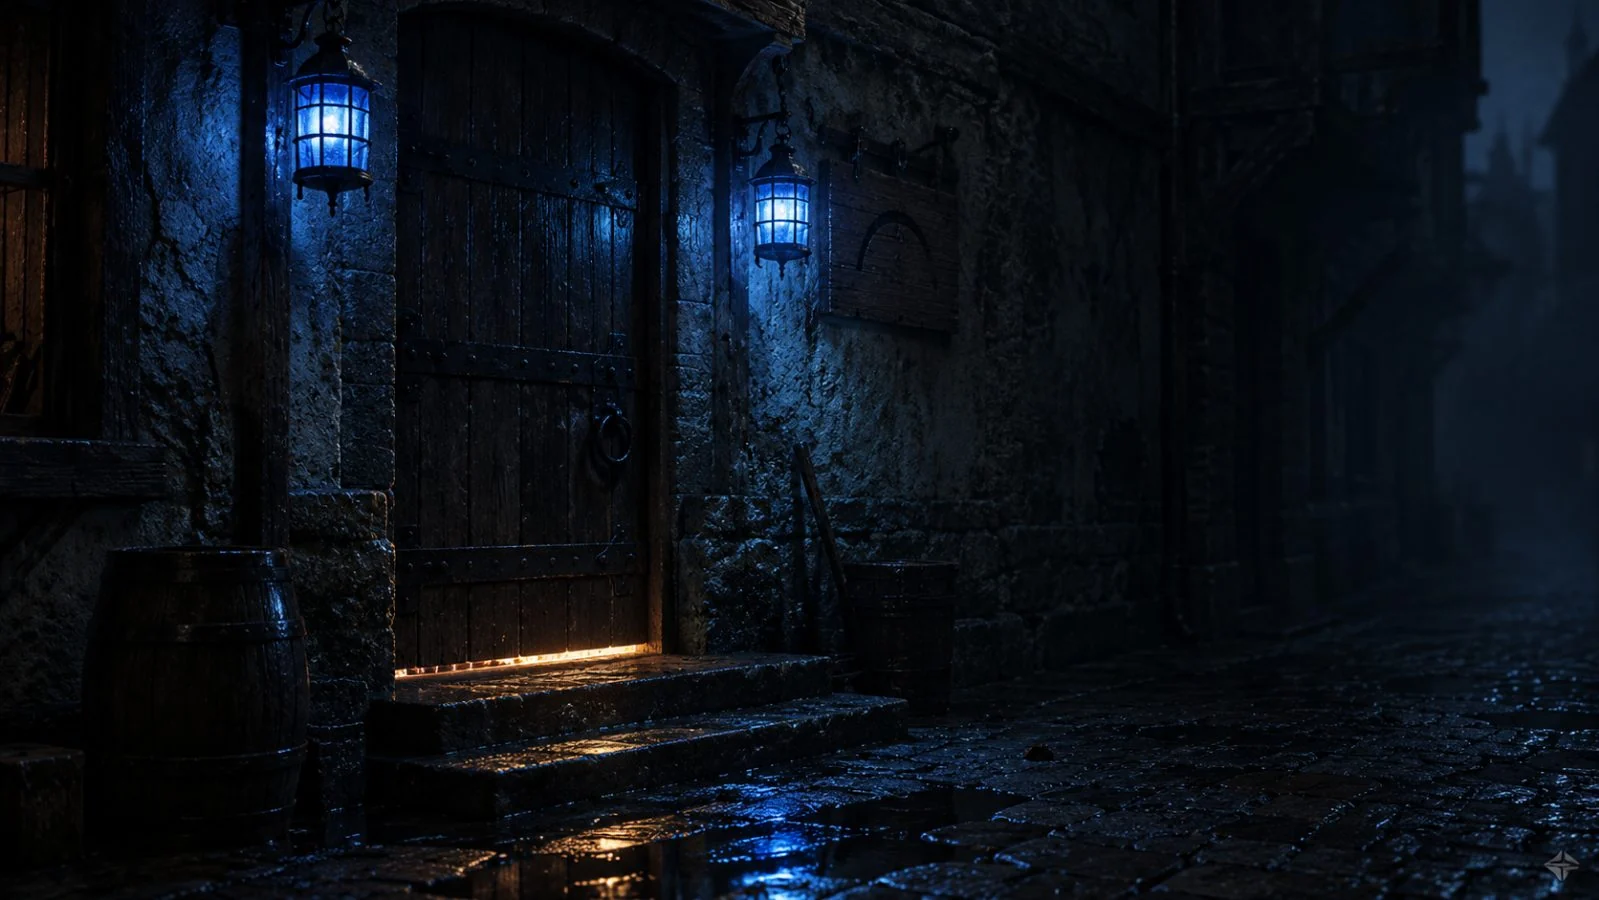
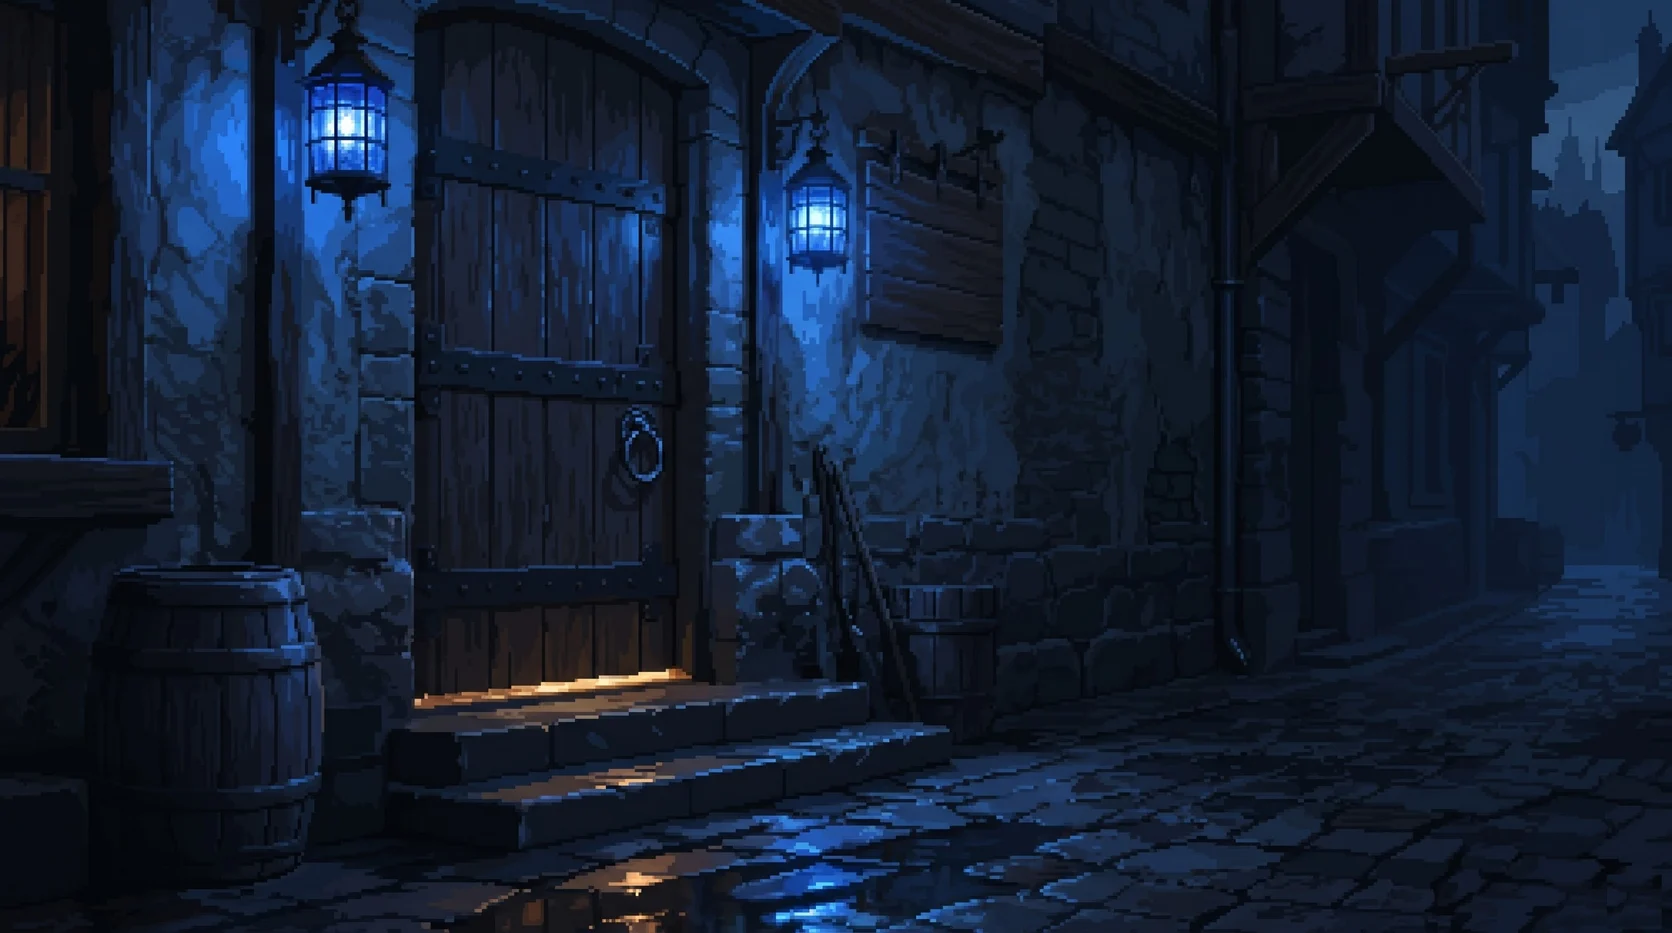
ПОРТ: крыльцо «Синего часа» в спокойном пикселе — первый переведённый фон (1 из 48)
Старый кадр — в Источники_Арта/Альтернативы, исходник Gemini без значка — Источники_Арта/Места/krylco_art.png.
Публичная копия игры пересобрана (заодно догнала озвучку пролога — проверка снова зелёная).

Claude-Session: https://claude.ai/code/session_01AohsHedWdkfggLZ7wdatry

diff --git a/Игры/Сайт/Игра/Порт/Данные/озвучка-пролога.js b/Игры/Сайт/Игра/Порт/Данные/озвучка-пролога.js
@@ -1,0 +1,31 @@
+// Озвучка пролога (13.11): текст для синтеза речи — отдельно от субтитров (субтитры — Данные/вступление.js, поле пролог).
+// Теги эмоций в квадратных скобках — только для синтезатора: вслух не звучат, проверка распознаванием сверяет
+// слова с субтитром без тегов. Многоточие и запятые здесь — паузы для голоса, в субтитре их может не быть.
+// Голоса ещё не выбраны: доска проб — после того, как окружение пустит модели (доска Порта, Р21).
+// ключ — путь строки в данных пролога: рассказ.N, бросок.<исход>, разговор.N, удар.
+export const ГОЛОСА_ПРОЛОГА = {
+  рассказчик: { голос: null, о: 'голос «ты»-рассказа: ровный, близкий, без пафоса' },
+  грузчик: { голос: null, о: 'старшой артели, за пятьдесят, хриплый, говорит коротко' },
+};
+
+export const ОЗВУЧКА_ПРОЛОГА = [
+  { ключ: 'рассказ.0', кто: 'рассказчик', синтез: '[тихо, устало] Семь лет — чужие реки... чужие баржи.' },
+  { ключ: 'рассказ.1', кто: 'рассказчик', синтез: '[спокойно, с тёплой ноткой] Порт Теней узнаёшь по звуку — раньше, чем по крышам.' },
+  { ключ: 'рассказ.2', кто: 'рассказчик', синтез: '[ровно, чуть с горечью] Здесь тебя никто не ждёт. Так даже проще.' },
+  { ключ: 'бросок.зов', кто: 'грузчик', синтез: '[громко, через воду] Эй, на барже! Конец давай!' },
+  { ключ: 'бросок.удача', кто: 'рассказчик', синтез: '[довольно] Петля ложится на тумбу с первого раза. Руки помнят.' },
+  { ключ: 'бросок.недолёт', кто: 'рассказчик', синтез: '[с усмешкой] Конец шлёпает в воду. Грузчик выуживает его багром и ворчит.' },
+  { ключ: 'бросок.перелёт', кто: 'рассказчик', синтез: '[с усмешкой] Конец перелетает тумбу. Грузчик ловит его и накидывает петлю сам.' },
+  { ключ: 'разговор.0', кто: 'рассказчик', синтез: '[тише] Грузчик не спешит вязать канат. Смотрит на тебя.' },
+  { ключ: 'разговор.1', кто: 'грузчик', синтез: '[недоверчиво, прищурясь] Скарре? Бреннов сын?' },
+  { ключ: 'разговор.2', кто: 'рассказчик', синтез: '[коротко] Ты киваешь.' },
+  { ключ: 'разговор.3', кто: 'грузчик', синтез: '[глухо, медленно] Бренна... четыре года как схоронили.' },
+  { ключ: 'разговор.4', кто: 'грузчик', синтез: '[растерянно, тише] Я думал, тебе сказали.' },
+  { ключ: 'удар', кто: 'рассказчик', синтез: '[очень тихо] Ты не знал.' },
+];
+
+// Пробы для доски выбора голоса: по две строки на персонажа — спокойная и с эмоцией.
+export const ПРОБЫ = {
+  рассказчик: ['рассказ.1', 'удар'],
+  грузчик: ['разговор.1', 'разговор.3'],
+};

diff --git a/Игры/Порт/ДОСКА.md b/Игры/Порт/ДОСКА.md
@@ -153,7 +153,7 @@
 | Р21 | **Пролог (третья версия 12.11, по отзыву автора «ролик стрёмный, перебор с плёнкой, звук хрипит, музыка не та, текст странный — 3/10»).** Видео убрано совсем. Один пиксельный кадр прибытия оживает: вода колышется (пиксели воды и отражения огней построчно, 12 кадров в секунду), камера медленно подходит; без растра, зерна и цветокоррекции. Текст как в комиксе: рассказ — бумажной подписью в углу кадра, реплика — облаком с головой говорящего (грузчик — временная голова с фото-кандидата `Ресурсы/Лица/port_gruzchik_golova.webp`, ждёт живописного пикселя, Р23). Бросок швартова — физика каната (стравливается с руки, ложится на борт, петля на тумбу / в воду / за тумбу). Разговор — камера подходит к причалу, на «схоронили» кадр темнеет и музыка уходит в тишину; «Ты не знал.» в темноте → выбор начала. Звук: синтезированный шум моря убран (он хрипел), под рассказом — тема доков. Код `Движок/пролог.js`, строки `Данные/вступление.js`, тест `пролог.mjs`. **Ждёт автора:** оценка третьей версии; лицо грузчика (старшого) в живописном пикселе; озвучка (13.11) — ключа ElevenLabs у автора нет, делаем открытыми моделями в контейнере: синтез Piper (или Silero), проверка распознаванием faster-whisper. Тексты с тегами — `Данные/озвучка-пролога.js`, сверка слов с субтитрами — в `пролог.mjs`. В окружение «Телефон» уже добавлены Hugging Face и Silero; **ещё нужны два адреса — `us.aws.cdn.hf.co` (файлы моделей) и `download-r2.pytorch.org` (PyTorch для Silero)**, подтвердить можно только с ПК. Потом — доска проб (по 3–4 голоса, спокойно и с эмоцией) и выбор автора; вопросы истории В65–В70 | Вступление |
 | Р22 | **Линия Уны Марш — отложено автором 12.11, доделать потом.** У Уны теперь портрет (`Ресурсы/Лица/port_una_marsh_art.webp`: невинное закрытое платье, покрывало, ухмылка, рука у пряди). Автор хочет полноценную запретную любовную линию, не четыре намёка. Черновой ход в 10 шагов (свеча, ниша с книгами, исповедальня, город без покрывала, ставни под дождём, поминальный день 20-го, слух, Второй журнал, отъезд) и вопросы В71–В74 (насколько далеко, почему нельзя, финал, возраст) — в Редакторе, `Канон/Редактор/01_Ждёт_тебя.md`. Диалоги не писать, пока автор не ответит | Чат 12.11, портреты |
 | Р23 | **Портреты в живописный пиксель — идёт 12.11.** Все лица переводятся из фото в стиль Мэсти через Gemini (новый чат на каждый, пурпурный фон, 2–3 попытки на сходство), вырезка — `Скрипты/вырезать_портрет.py`, файл `*_art.webp`, в данных `портрет:` переключается на него. Страница с промтами — `Игры/Сайт/portrety.html` (сборка `Скрипты/portrety_page.py`). Готово: Нора, Сиб, Старшая, Ния, Уна. Ждут: остальные 21 из 26, у 35 жителей портрета нет совсем | Чат 12.11, портреты |
-| Р24 | **Фоны в спокойный пиксель — начато 13.11.** Эталон — `Ресурсы/Быт/вдова.webp` (выбор автора из 10). 48 фонов: 28 фонов мест, плюс отмеченные автором (пристань у трапа, кухня после смены, торговый и маяк — бледные, улица финала) и похожие на них (доки, работы, пролог, город). Страница с промтами — `Игры/Сайт/fony.html` (сборка `Скрипты/fony_page.py`), палитры общие с портретами (`Скрипты/palitry.py`). Готово: 0 из 48 | Чат 13.11, фоны |
+| Р24 | **Фоны в спокойный пиксель — начато 13.11.** Эталон — `Ресурсы/Быт/вдова.webp` (выбор автора из 10). 48 фонов: 28 фонов мест, плюс отмеченные автором (пристань у трапа, кухня после смены, торговый и маяк — бледные, улица финала) и похожие на них (доки, работы, пролог, город). Страница с промтами — `Игры/Сайт/fony.html` (сборка `Скрипты/fony_page.py`), палитры общие с портретами (`Скрипты/palitry.py`). Готово: 1 из 48 — крыльцо «Синего часа» (старое — `Источники_Арта/Альтернативы/krylco-до-13-11-2026.webp`) | Чат 13.11, фоны |
 
 ## 2. Ждёт вычитки или текста автора
 
